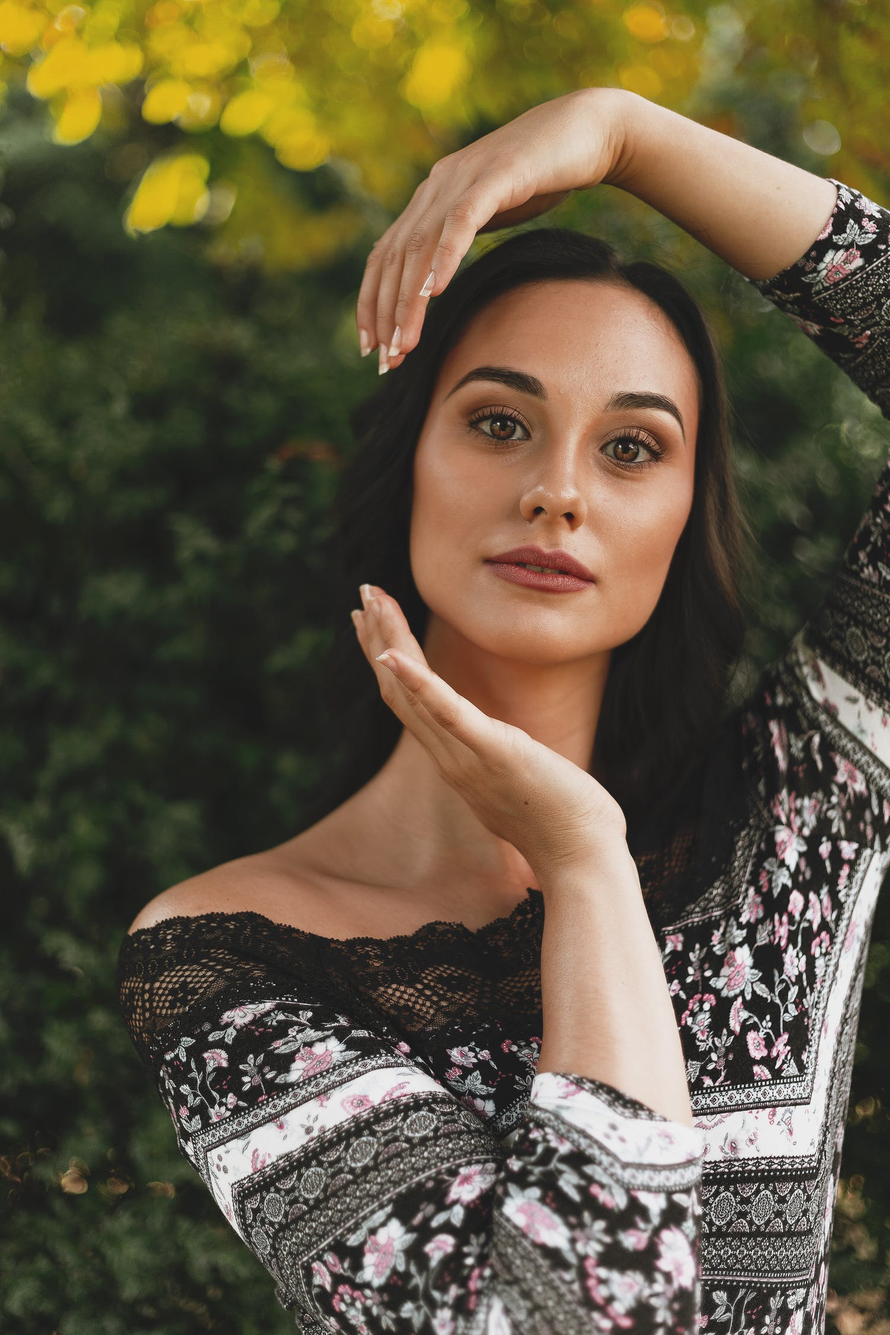
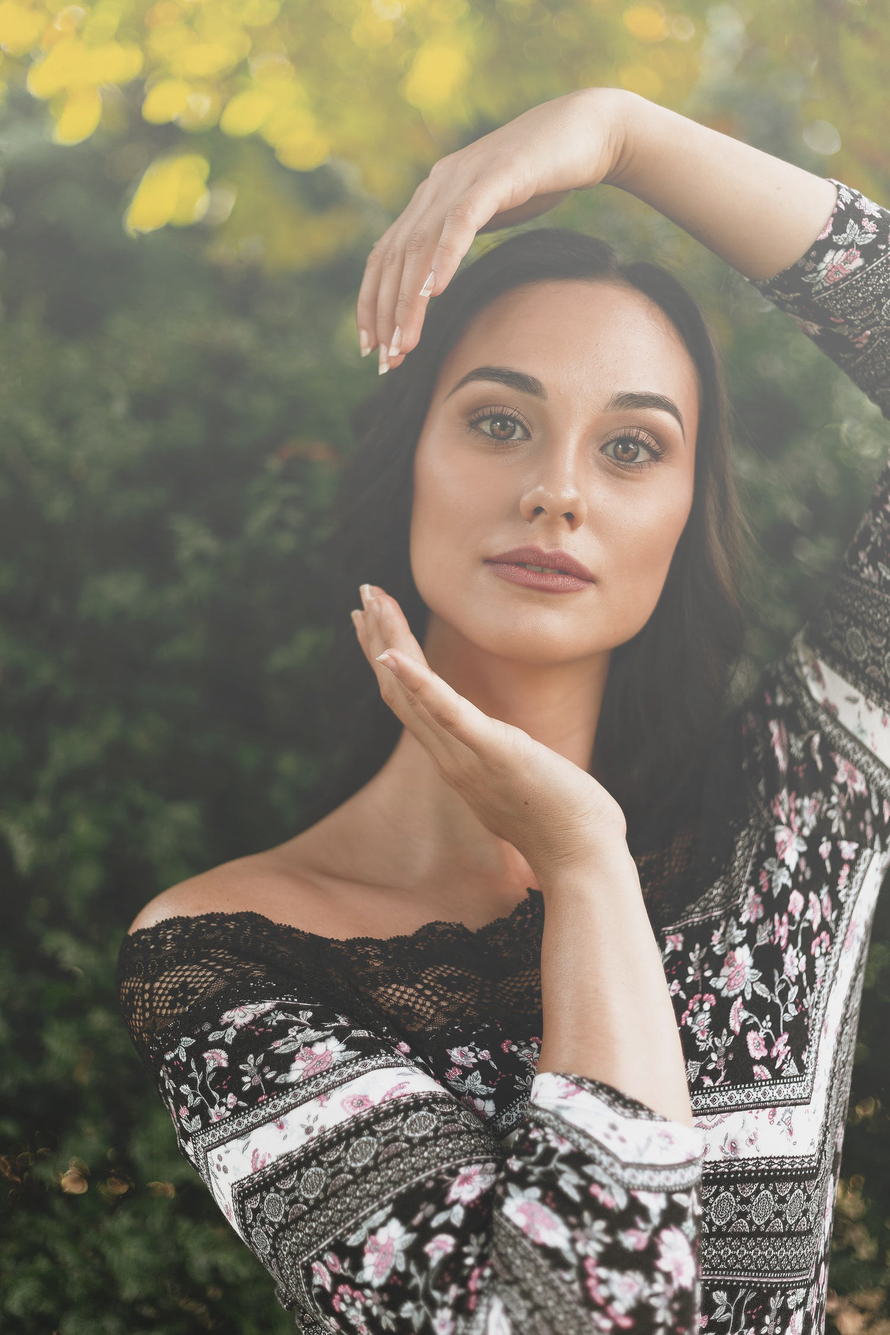
praticando...

diff --git a/index.html b/index.html
@@ -27,7 +27,7 @@
         <div class="col-md-12">
             <div class="card card-block w-50 mx-auto" id="caixa">
                 <div class="row">
-                    <div class="col-md-6">
+                    <div class="col-md-6" id="imagem">
                         <img id="foto" src="silhueta.jpeg" alt="" class="img-fluid">
                     </div>
                     <div class="col-md-6" id="direita">
@@ -41,13 +41,13 @@
                         <hr>
                         <p id="sexo"><strong>Escolha o sexo</strong></p>
                         <div class="form-check">
-                            <input class="form-check-input" type="radio" name="exampleRadios" id="exampleRadios1" value="option1" checked>
+                            <input class="form-check-input" type="radio" name="radSex" id="exampleRadios1" value="option1" checked>
                             <label class="form-check-label" for="exampleRadios1">
                               Feminino
                             </label>
                         </div>
                         <div class="form-check">
-                            <input class="form-check-input" type="radio" name="exampleRadios" id="exampleRadios2" value="option2">
+                            <input class="form-check-input" type="radio" name="radSex" id="exampleRadios2" value="option2">
                             <label class="form-check-label" for="exampleRadios2">
                               Masculino
                             </label>

diff --git a/script.js b/script.js
@@ -2,5 +2,26 @@ function verificar() {
     var data = new Date()
     var anoAtual = data.getFullYear()
     var anoNasc = document.getElementById('ano_nasc')
-    var resultado = document.getElementById('resultado')  
+    var resultado = document.getElementById('resultado')
+    var receber_img = document.getElementById('imagem')
+    var imagem = document.getElementById('foto')
+    
+    if (anoNasc.value.length == 0 || anoNasc.value > anoAtual) {
+        window.alert('Erro, verifique os dados e tente novamente!')
+    } else {
+        var sex = document.getElementsByName('radSex')
+        var idade = anoAtual - anoNasc.value
+        var genero = ""
+        
+        if (sex[0].checked) {
+            genero = 'mulher'
+            if (idade >= 18 && idade <= 50) {
+                imagem.setAttribute('src', 'mulher25-35.jpeg')
+            }
+        } else if (sex[1].checked) {
+            genero = 'homem'
+        }
+        resultado.innerHTML = `Detectamos ${genero} com ${idade} anos`
+        receber_img.appendChild(imagem)
+    }
 }
